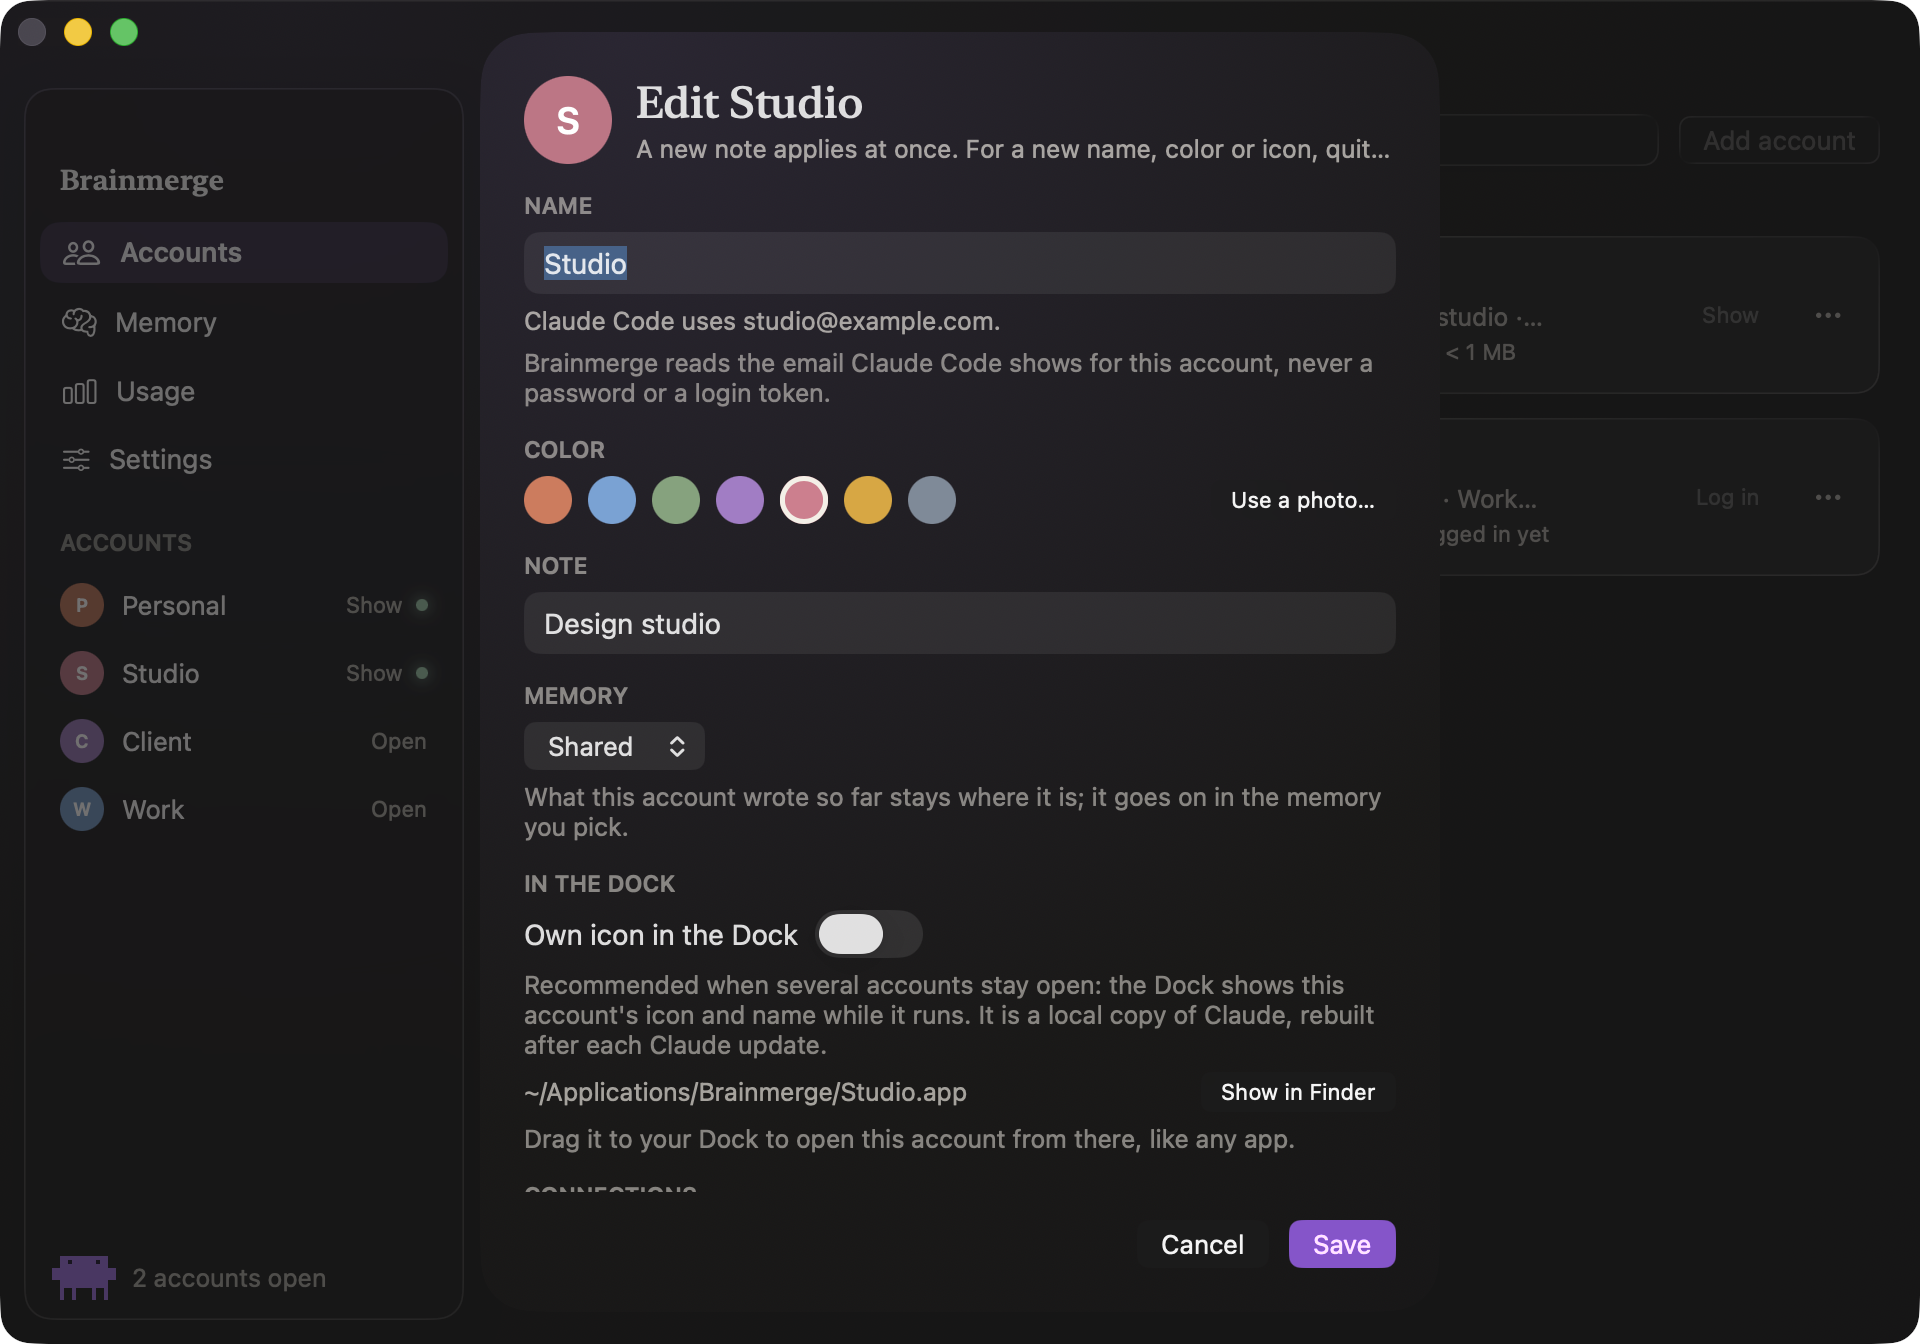
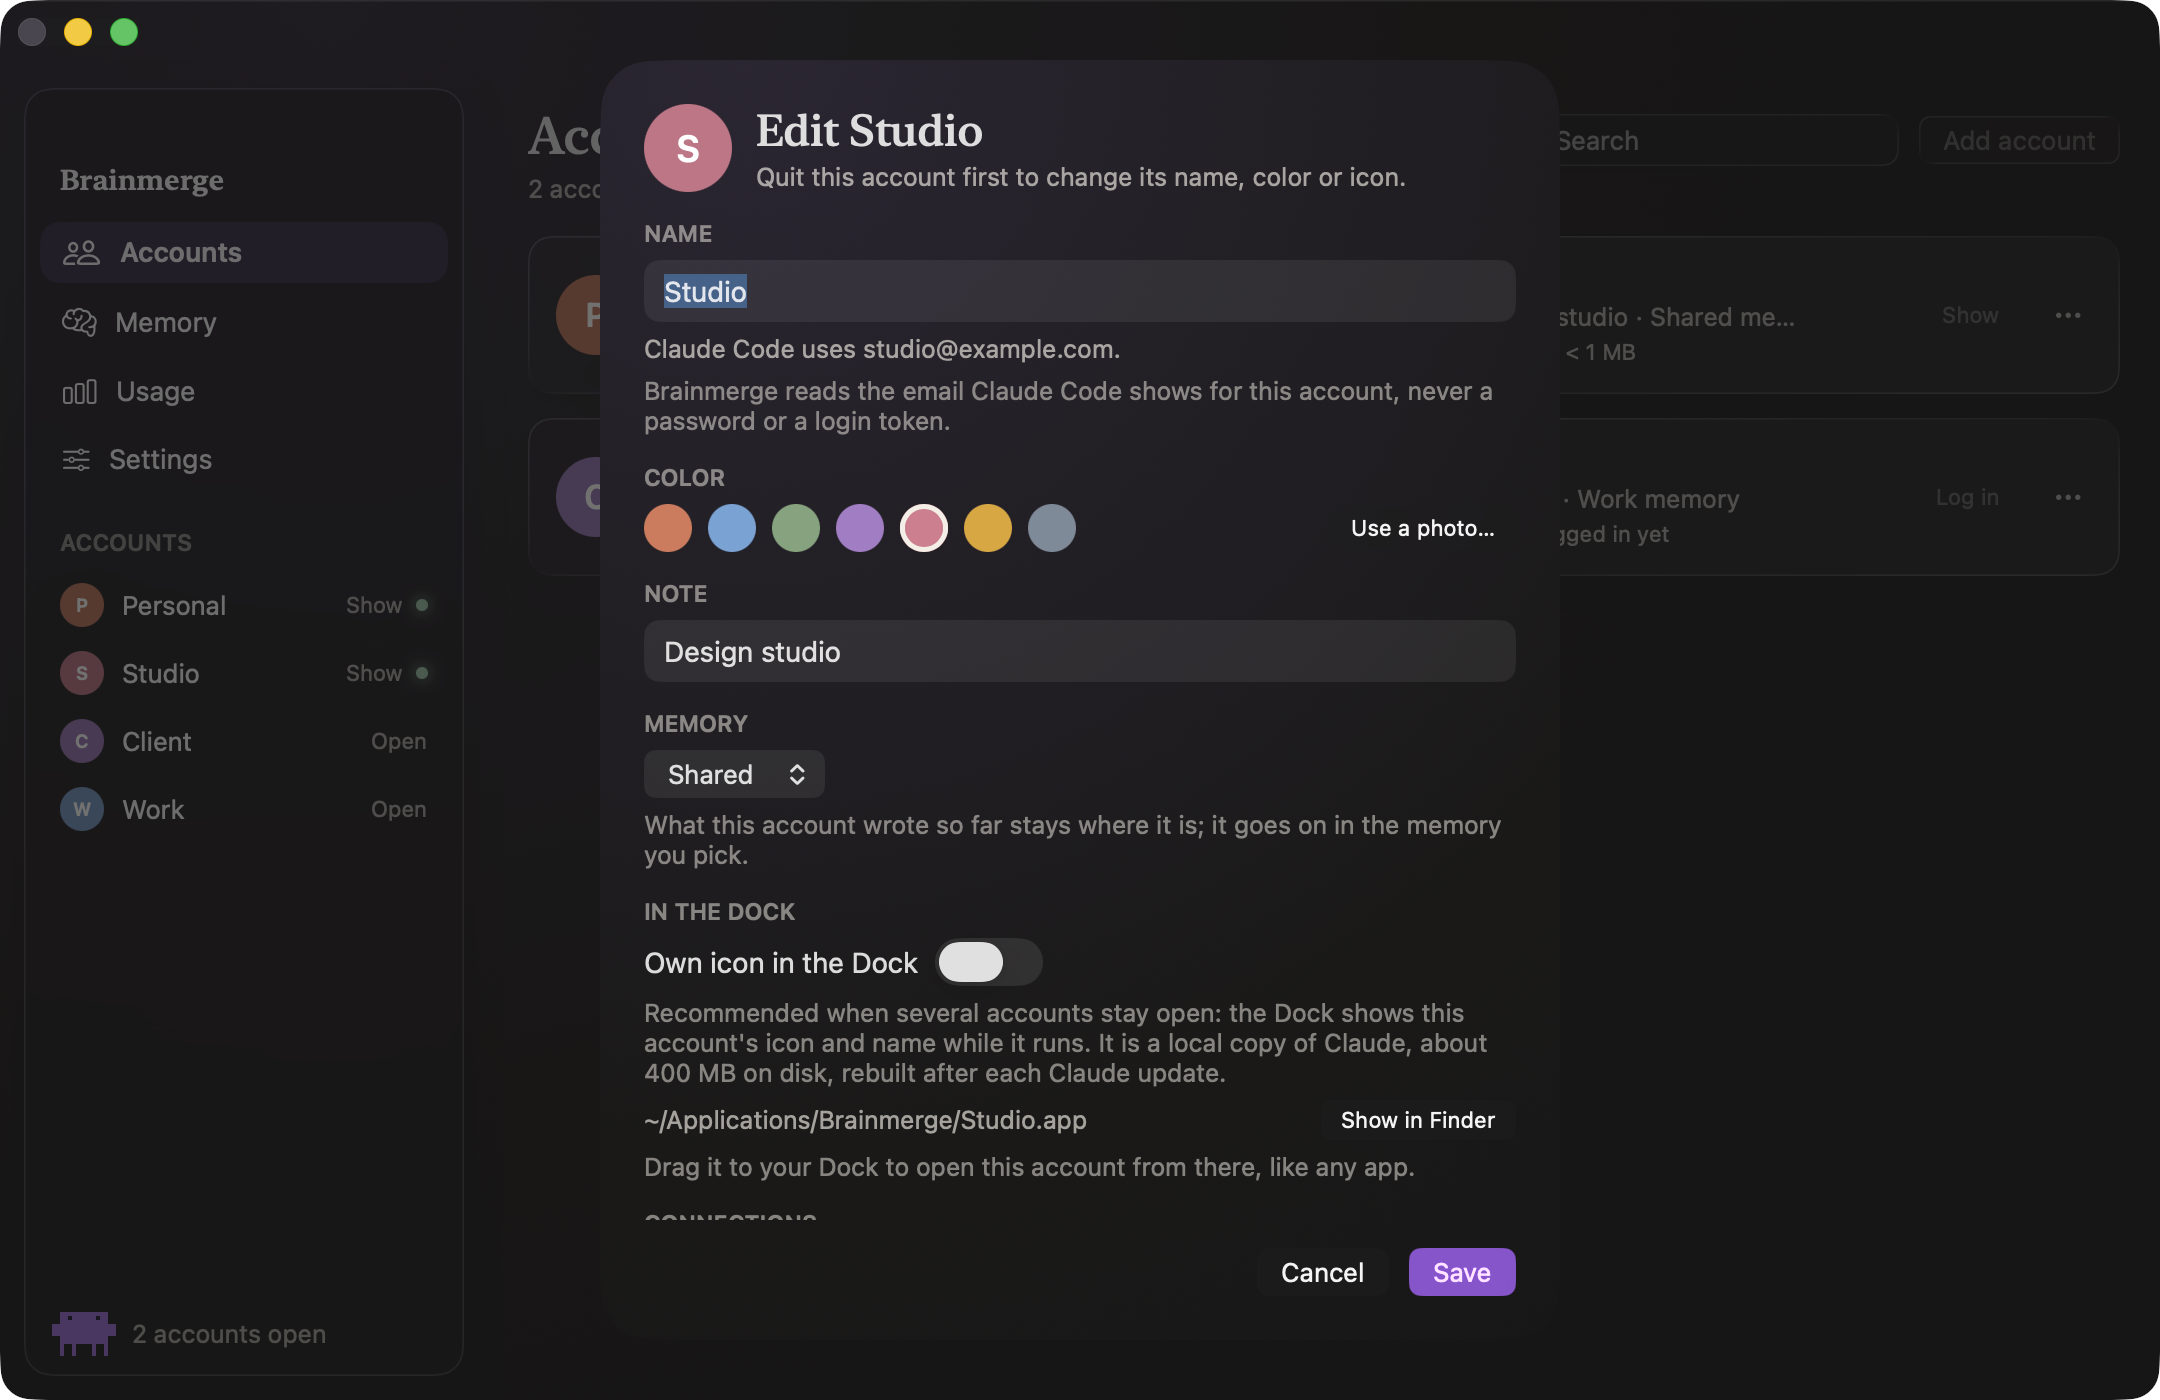
chore: version 0.6.2, with a shorter Edit subtitle and its screenshot

diff --git a/site/index.html b/site/index.html
@@ -67,7 +67,7 @@
           <a class="btn btn-primary btn-dl" href="https://github.com/ruben4reall/brainmerge/releases/latest/download/Brainmerge.dmg"><span>Download for Mac</span><svg class="dl-ico" viewBox="0 0 16 16" aria-hidden="true" focusable="false"><path class="dl-arrow" d="M8 2.25v7.5M4.75 6.75 8 10l3.25-3.25" fill="none" stroke="currentColor" stroke-width="1.6" stroke-linecap="round" stroke-linejoin="round"/><path d="M3.25 13.25h9.5" fill="none" stroke="currentColor" stroke-width="1.6" stroke-linecap="round"/></svg></a>
           <a class="btn btn-ghost" href="https://github.com/ruben4reall/brainmerge">View on GitHub</a>
         </div>
-        <p class="fine hero-fine"><span class="nw">Version 0.6.1</span> <span aria-hidden="true">·</span> <span class="nw">macOS 26 or later</span> <span aria-hidden="true">·</span> <span class="nw">Free and open source</span><span class="sep-wide" aria-hidden="true"> · </span><br class="br-narrow"> <span class="nw">Works with Claude.</span> <span class="nw">Not made by Anthropic.</span></p>
+        <p class="fine hero-fine"><span class="nw">Version 0.6.2</span> <span aria-hidden="true">·</span> <span class="nw">macOS 26 or later</span> <span aria-hidden="true">·</span> <span class="nw">Free and open source</span><span class="sep-wide" aria-hidden="true"> · </span><br class="br-narrow"> <span class="nw">Works with Claude.</span> <span class="nw">Not made by Anthropic.</span></p>
       </div>
       <figure class="hero-shot">
         <!-- Phones get readable crops of each screen. The device-width test keeps desktop windows on the full screenshots, even when narrowed. -->
@@ -657,7 +657,7 @@
         <!-- install-note -->
         <p class="install-note">Signed with a Developer ID and notarized by Apple: the first time, macOS only asks you to confirm opening an app downloaded from the&nbsp;internet.</p>
         <!-- /install-note -->
-        <p class="fine"><span class="nw">Version 0.6.1</span> <span aria-hidden="true">·</span> <span class="nw">macOS 26 or later</span><span class="sep-wide" aria-hidden="true"> · </span><br class="br-narrow"> <span class="nw">Requires the Claude app</span></p>
+        <p class="fine"><span class="nw">Version 0.6.2</span> <span aria-hidden="true">·</span> <span class="nw">macOS 26 or later</span><span class="sep-wide" aria-hidden="true"> · </span><br class="br-narrow"> <span class="nw">Requires the Claude app</span></p>
       </div>
       <div class="wrap install reveal-group">
         <figure class="install-shot">
@@ -688,7 +688,7 @@
         </ul>
       </div>
       <p class="legal">Works with Claude. Not made by Anthropic. Not affiliated with Anthropic. Claude is a trademark of&nbsp;Anthropic.</p>
-      <p class="legal">MIT license <span aria-hidden="true">·</span> Version&nbsp;0.6.1</p>
+      <p class="legal">MIT license <span aria-hidden="true">·</span> Version&nbsp;0.6.2</p>
     </div>
   </footer>
 </body>

diff --git a/Packages/BrainmergeUI/Tests/BrainmergeUITests/EditAccountSheetTests.swift b/Packages/BrainmergeUI/Tests/BrainmergeUITests/EditAccountSheetTests.swift
@@ -15,7 +15,7 @@ import BrainmergeTestSupport
     @Test func theHeaderSaysWhetherTheAccountMustBeClosed() {
         #expect(EditAccountSheet.header(for: account("Ruben", primary: true, running: true)) == "Changes apply when you save. Claude stays open.")
         #expect(EditAccountSheet.header(for: account("Ruben", primary: true, running: false)) == "Changes apply when you save.")
-        #expect(EditAccountSheet.header(for: account("Work", running: true)) == "A new note applies at once. For a new name, color or icon, quit this account first: its app is rebuilt.")
+        #expect(EditAccountSheet.header(for: account("Work", running: true)) == "Quit this account first to change its name, color or icon.")
         #expect(EditAccountSheet.header(for: account("Work", running: false)) == "Changes apply when you save.")
     }
 

diff --git a/Packages/BrainmergeUI/Sources/BrainmergeUI/Screens/EditAccountSheet.swift b/Packages/BrainmergeUI/Sources/BrainmergeUI/Screens/EditAccountSheet.swift
@@ -234,7 +234,7 @@ public struct EditAccountSheet: View {
     /// saving never touches it (its memory waits for Claude to quit, which the memory picker says while it runs).
     nonisolated static func header(for account: Account) -> String {
         guard account.isRunning else { return "Changes apply when you save." }
-        return account.identity.isPrimary ? "Changes apply when you save. Claude stays open." : "A new note applies at once. For a new name, color or icon, quit this account first: its app is rebuilt."
+        return account.identity.isPrimary ? "Changes apply when you save. Claude stays open." : "Quit this account first to change its name, color or icon."
     }
 
     /// Moving the memory links needs the account closed: the primary may stay open for everything else, so while it runs

diff --git a/site/404.html b/site/404.html
@@ -42,7 +42,7 @@
   <footer class="footer">
     <div class="wrap">
       <p class="legal">Works with Claude. Not made by Anthropic. Not affiliated with Anthropic. Claude is a trademark of&nbsp;Anthropic.</p>
-      <p class="legal">MIT license <span aria-hidden="true">·</span> Version&nbsp;0.6.1</p>
+      <p class="legal">MIT license <span aria-hidden="true">·</span> Version&nbsp;0.6.2</p>
     </div>
   </footer>
 </body>

diff --git a/Packages/BrainmergeCore/Tests/BrainmergeCoreTests/CLISmokeTests.swift b/Packages/BrainmergeCore/Tests/BrainmergeCoreTests/CLISmokeTests.swift
@@ -597,6 +597,6 @@ import BrainmergeTestSupport
     @Test func versionMatchesTheApp() throws {
         let e = try ManagerEnv.make(); defer { e.home.remove() }
         #expect(try run(e, ["--version"]).stdout.trimmingCharacters(in: .whitespacesAndNewlines) == BrainmergeInfo.version)
-        #expect(BrainmergeInfo.version == "0.6.1")
+        #expect(BrainmergeInfo.version == "0.6.2")
     }
 }

diff --git a/Packages/BrainmergeCore/Sources/BrainmergeCore/Model/BrainmergeInfo.swift b/Packages/BrainmergeCore/Sources/BrainmergeCore/Model/BrainmergeInfo.swift
@@ -2,5 +2,5 @@ import Foundation
 
 /// The one version string, shared by the app and the command line.
 public enum BrainmergeInfo {
-    public static let version = "0.6.1"
+    public static let version = "0.6.2"
 }

diff --git a/Packages/BrainmergeUI/Tests/BrainmergeUITests/SmokeTests.swift b/Packages/BrainmergeUI/Tests/BrainmergeUITests/SmokeTests.swift
@@ -3,6 +3,6 @@ import Testing
 
 @Suite struct SmokeTests {
     @Test func versionIsSet() {
-        #expect(BrainmergeUIInfo.version == "0.6.1")
+        #expect(BrainmergeUIInfo.version == "0.6.2")
     }
 }

diff --git a/CHANGELOG.md b/CHANGELOG.md
@@ -1,6 +1,8 @@
 # Changelog
 
-## Unreleased
+## 0.6.2 (2026-09-27)
+
+Brainmerge 0.6.2 finishes the review's leftovers: truer usage, account apps that follow Claude when it moves, and saves of your own edits that say when they fail.
 
 ### Fixed
 
